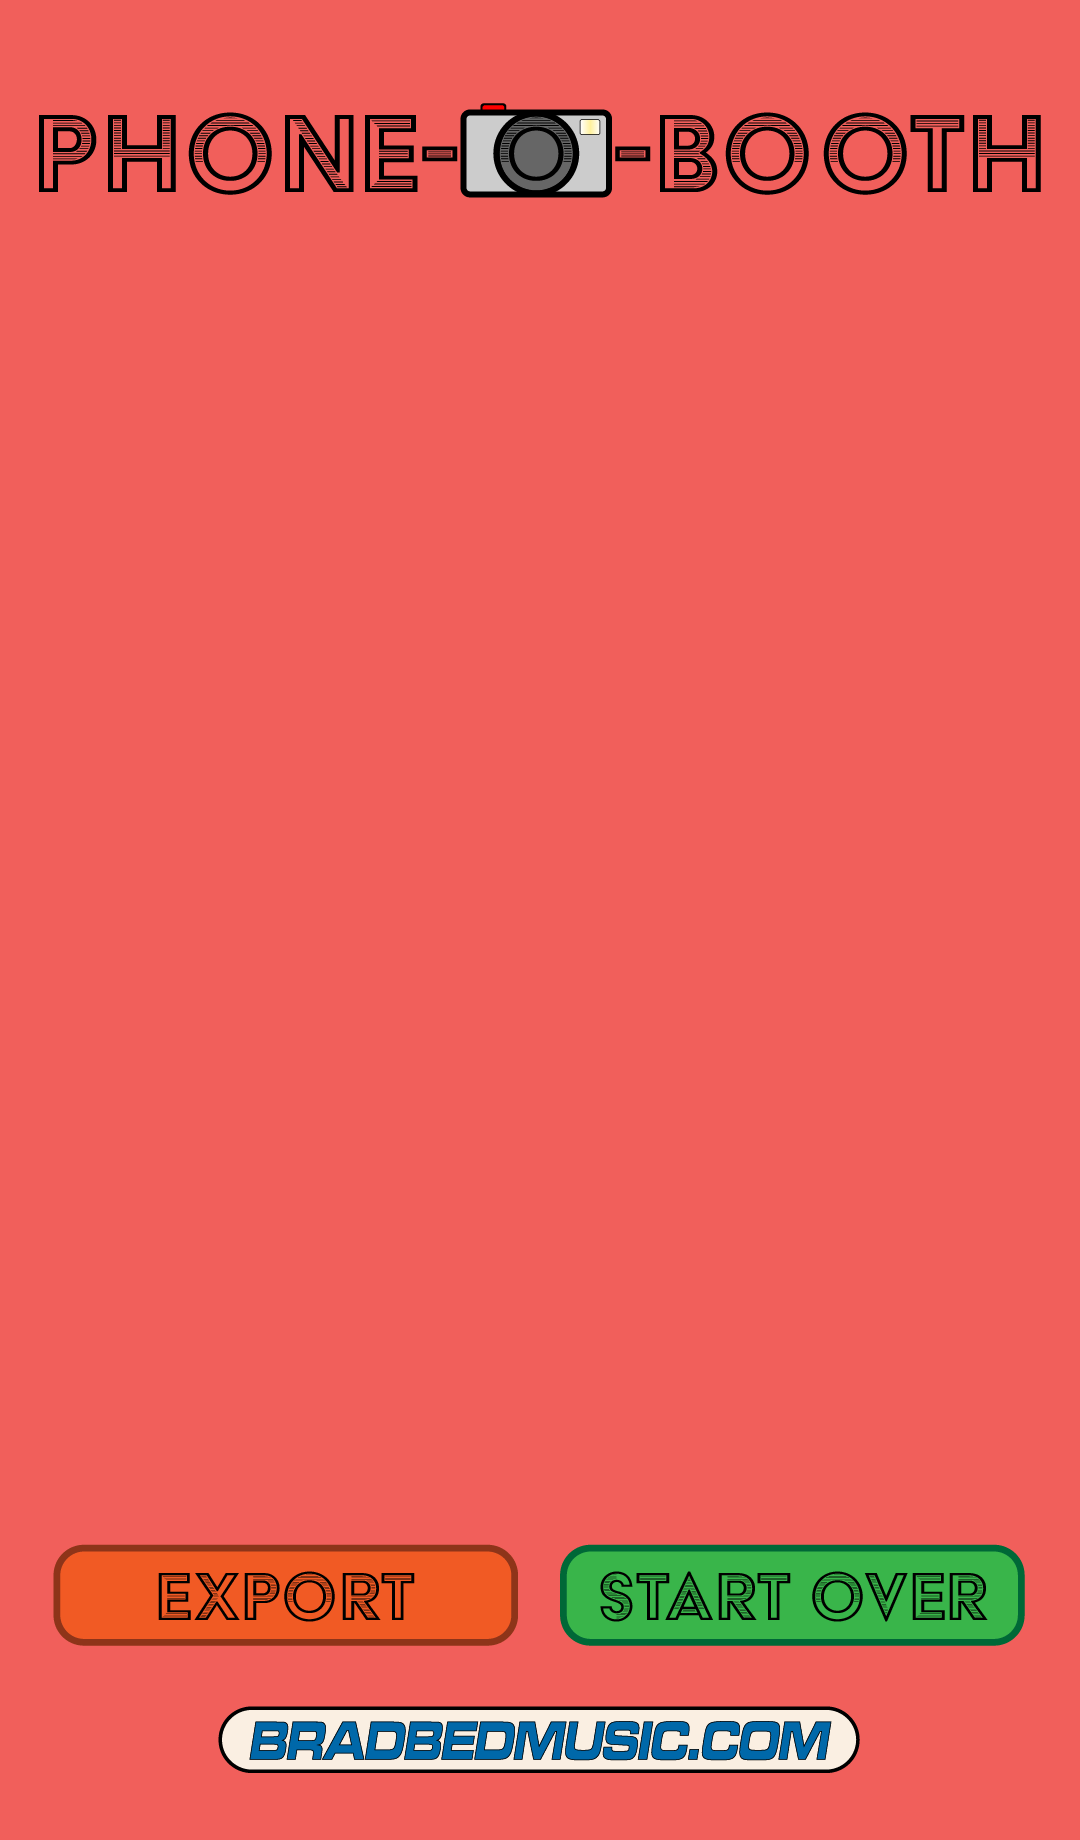
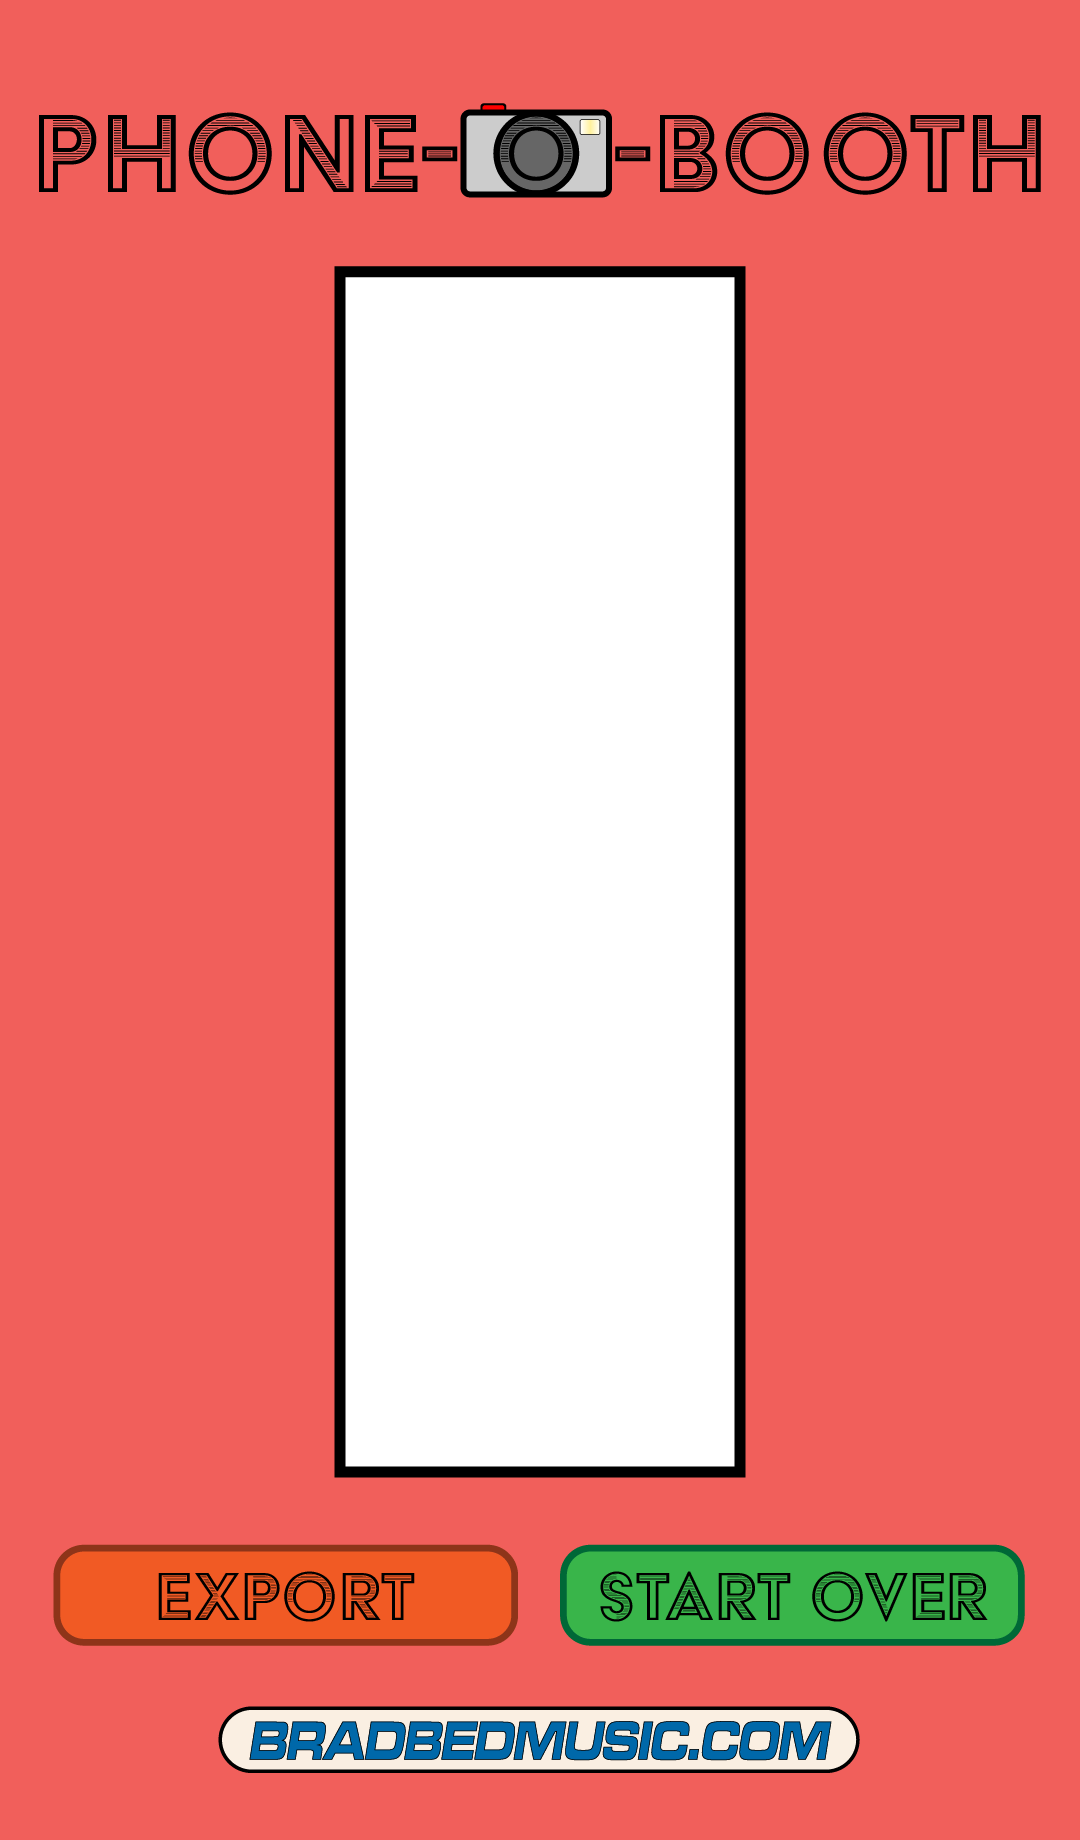
phonobooth test

Changed region(s): [[0.3056, 0.1239, 0.7028, 0.8054]]

diff --git a/phoneobooth/phoneobooth.js b/phoneobooth/phoneobooth.js
@@ -1,24 +1,40 @@
 let cnv;
+let cnvBuild;
+let cnvBuildDig;
 let clickbox;
 let moved = false;
 let help = true;
 let main = false;
 let flash = false;
 let finalScreen = false;
+let printScreen = false;
+let digiScreen = false;
 let photoCounter = 0;
 let capture;
 let timer = 5;
 let flashCounter;
+let snap1;
+let snap2;
+let snap3;
+let snap4;
+let firstTime = true;
+let printSave;
+let digiSave;
+let exportCount = 2;
+let exportmenu = false;
 
 function setup() {
   helpbg = loadImage('assets/help.png');
   mainbg = loadImage('assets/main.png');
   exportbg = loadImage('assets/export.png');
   clickbox = loadImage('assets/CLICKBOX.png');
+  printTemp = loadImage('assets/printtemp.png');
+  digiTemp = loadImage('assets/digitemp.png');
+  exportMenuBg = loadImage('assets/exportmenu.png');
   cnv = createCanvas(windowWidth, windowWidth*1.7);
   capture = createCapture(VIDEO);
   capture.elt.setAttribute('playsinline', '');
-  capture.size(windowWidth, windowWidth*2);
+  capture.size(windowWidth, windowWidth*0.75);
   capture.hide();
   textAlign(CENTER, CENTER);
   fill('white');
@@ -37,15 +53,26 @@ function draw() {
     if (photoCounter < 4) {
       mainWindow();
     } else {
-      finalScreen = true;
+      printScreen = true;
       main = false;
     }
   }
   if (flash) {
     flashScreen();
   }
+  if (printScreen) {
+    printingScreen();
+  }
+  if (digiScreen) {
+    digifyScreen();
+  }
   if (finalScreen) {
+    cnv = createCanvas(windowWidth, windowWidth*1.7);
     image(exportbg, 0, 0, ratioScale*1080, ratioScale*1840);
+    image(digiSave, 340*ratioScale, 272*ratioScale, ratioScale*400, ratioScale*1200);
+    if (exportmenu) {
+    image(exportMenuBg, 125*ratioScale, 401*ratioScale, ratioScale*828, ratioScale*556);
+    }
   }
 }
 
@@ -53,31 +80,46 @@ function drawClickbox(xstart, ystart, xadd, yadd) { //draws a clicbox for debugg
   image(clickbox, ratioScale*xstart, ratioScale*ystart, ratioScale*(xadd), ratioScale*(yadd));
 }
 
-function touchStarted() {
-  moved = false;
-}
-
-function touchMoved() {
-  moved = true;
-}
-
 function touchEnded() {
-  if (!moved) {
-    if (help) {
-      if (buttonBounds(200, 1397, 679, 176)) {
-        help = false;
-        main = true;
-      }
+  if (buttonBounds(220, 1703, 637, 66)) {
+  window.open("https://www.bradbedmusic.com");
+  }
+  if (help) {
+    if (buttonBounds(204, 1462, 679, 176)) {
+      help = false;
+      main = true;
     }
-    if (main) {
-      if (buttonBounds(252, 1545, 573, 94)) {
-        help = true;
-        main = false;
-        resetVars();
-      }
+  }
+  if (main) {
+    if (buttonBounds(252, 1545, 573, 94)) {
+      help = true;
+      main = false;
+      resetVars();
+    }
+  }
+  if (finalScreen) {
+    if (buttonBounds(563, 1548, 457, 94)) {
+      help = true;
+      main = false;
+      finalScreen = false;
+      resetVars();
+    }
+    if (buttonBounds(56, 1548, 457, 94)) {
+      exportmenu = true;
+    }
+  }
+  if(exportmenu) {
+  if (buttonBounds(235, 607, 610, 94)) {
+      printSave.save("PhoneOBoothPrint.png");
+      exportmenu = false;
+    }
+    if (buttonBounds(235, 796, 610, 94)) {
+      digiSave.save("PhoneOBoothDigital.png");
+      exportmenu = false;
     }
   }
 }
+
 
 function buttonBounds(xstart, ystart, xadd, yadd) { //returns whether or not mouse is in the bounds of a button
   if ((ratioScale*ystart <= mouseY && mouseY <= ratioScale*(ystart+yadd)) && (ratioScale*xstart <= mouseX && mouseX <= ratioScale*(xstart+xadd))) {
@@ -93,7 +135,10 @@ function helpWindow() {
 
 function mainWindow() {
   image(mainbg, 0, 0, ratioScale*1080, ratioScale*1840);
-  image(capture, ratioScale*83, ratioScale*942, ratioScale*654, ratioScale*443);
+  push();
+  scale(-1, 1);
+  image(capture, -ratioScale*83, ratioScale*942, -ratioScale*654, ratioScale*443);
+  pop();
   textSize(250*ratioScale);
   text(timer, 227*ratioScale, 560*ratioScale);
   countString = str(photoCounter+1)+ "/4";
@@ -115,11 +160,24 @@ function flashScreen() {
   }
   if (flashCounter == 1) {
     //Take Photo
+    if (photoCounter == 0) {
+      snap1 = capture.get();
+    } else if (photoCounter == 1) {
+      snap2 = capture.get();
+    } else if (photoCounter == 2) {
+      snap3 = capture.get();
+    } else if (photoCounter == 3) {
+      snap4 = capture.get();
+    }
   }
   if (flashCounter==0) {
     photoCounter ++;
     flash = false;
     main = true;
+    capture = createCapture(VIDEO);
+    capture.elt.setAttribute('playsinline', '');
+    capture.size(windowWidth, windowWidth*0.75);
+    capture.hide();
     timer = 5;
   }
 }
@@ -132,4 +190,33 @@ function resetVars() {
   finalScreen = false;
   photoCounter = 0;
   timer = 5;
+  exportmenu = false;
+}
+
+function printingScreen() {
+  cnvBuild = createCanvas(1200, 1800);
+  image(printTemp, 0, 0, 1200, 1800);
+  image(snap1, 50, 45, 501, 376);
+  image(snap1, 650, 45, 501, 376);
+  image(snap2, 50, 458, 501, 376);
+  image(snap2, 650, 458, 501, 376);
+  image(snap3, 50, 871, 501, 376);
+  image(snap3, 650, 871, 501, 376);
+  image(snap4, 50, 1284, 501, 376);
+  image(snap4, 650, 1284, 501, 376);
+  printSave = cnvBuild.get();
+  printScreen = false;
+  digiScreen = true;
+}
+
+function digifyScreen() {
+  cnvBuildDig = createCanvas(600, 1800);
+  image(digiTemp, 0, 0, 600, 1800);
+  image(snap1, 50, 45, 501, 376);
+  image(snap2, 50, 458, 501, 376);
+  image(snap3, 50, 871, 501, 376);
+  image(snap4, 50, 1284, 501, 376);
+  digiSave = cnvBuildDig.get();
+  digiScreen = false;
+  finalScreen = true;
 }
